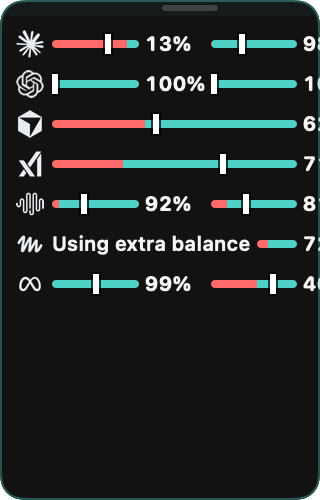
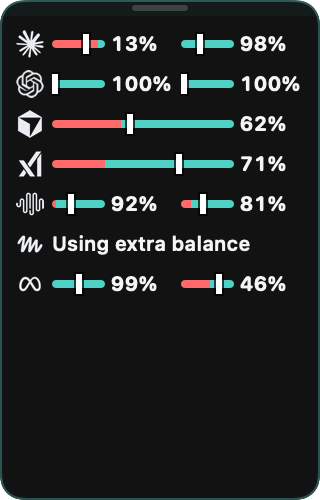
fix(pip): keep the HUD's widths honest after review
* The "Using extra balance" row no longer overflows.  The words take the room they need and shrink to give the meter what is left, and the meter gives way first when the row is too narrow for both.
* The percentage column is 32 points.  The rendered "100%" measures 31, and the percentage is a fixed-size text, so a 30 point column clipped its last digit.
* The provider name is capped at the width the ladder budgeted for it.  A long name now truncates instead of pushing the meters out of the row.
* The expanded detail gives way before the panel clips.  The countdown goes first, then the label, and the bar takes whatever room is left.
* A label that only shares the caption's leading digits is kept.  "5 GB bonus" beside a "5h" caption is no longer dropped.
* The expanded detail reads the same width ladder as the rows.

diff --git a/Sources/CodeCaps/PipWidget.swift b/Sources/CodeCaps/PipWidget.swift
@@ -30,7 +30,11 @@ enum PipMetrics {
     /// Wide enough for "100%" in bold monospaced digits at 10pt, left-aligned so
     /// a long number never clips: the owner saw "100%" lose a couple of points
     /// at the narrow end when it was right-aligned into a tight frame.
-    static let percentWidth: CGFloat = 30
+    ///
+    /// 32, not 30: the rendered "100%" measures 31 points at 10pt bold
+    /// monospaced, and the percentage is a fixed-size text, so a 30 point
+    /// column clipped its last digit.
+    static let percentWidth: CGFloat = 32
     static let countdownWidth: CGFloat = 42
     static let countdownCompactWidth: CGFloat = 28
     static let barMinWidth: CGFloat = 20
@@ -139,6 +143,28 @@ enum PipMetrics {
     /// very smallest window the owner can drag the panel to.
     static let logoSingleMeterMinWidth: CGFloat =
         providerLogoSize + rowSpacing + bareMeterMinWidth
+
+    /// The narrowest one line of the expanded platform detail can be and still
+    /// show the cadence caption, the percentage and the bar.
+    static let detailRowMinWidth: CGFloat =
+        cadenceWidth + meterSpacing + percentWidth + meterSpacing + barMinWidth
+
+    /// The same line plus its reset countdown.
+    static let detailRowMinWidthWithCountdown: CGFloat =
+        detailRowMinWidth + meterSpacing + countdownWidth
+
+    /// The least room a window label needs before it is worth showing.
+    static let detailLabelMinWidth: CGFloat = 24
+
+    /// The most a window label may take.  The bar needs the room more.
+    static let detailLabelMaxWidth: CGFloat = 120
+
+    /// The narrowest the words beside a capped row's extra balance can be.
+    ///
+    /// "Using extra balance" measures 99 points at 10pt semibold and is allowed
+    /// to shrink to 70% of that, so 70 points is the least room in which the
+    /// words still read.
+    static let extraBalanceTextMinWidth: CGFloat = 70
 
     // MARK: Responsive detail
 
@@ -738,7 +764,8 @@ struct PipWidgetView: View {
                             .frame(width: 1)
                             .frame(height: PipMetrics.rowHeight)
                     }
-                    pipRow(row, detail: detail, expandedCadence: expandedCadence, peerRows: peerRows)
+                    pipRow(row, detail: detail, expandedCadence: expandedCadence, peerRows: peerRows,
+                           available: rowWidth)
                         .frame(width: rowWidth, alignment: .leading)
                 }
             }
@@ -831,22 +858,24 @@ struct PipWidgetView: View {
             // of every provider, so asking for it again inside each row
             // helper rebuilt the same list once per row, once per frame.
             let peerRows = model.orderedPipDisplaySections()
+            let spiking = anyRowSpiking(peerRows: peerRows)
+            let expandedCadence = isSingleModel && PipMetrics.expandedCadenceFits(
+                forWidth: geo.size.width, titleWidth: providerTitleWidth,
+                hasFlame: spiking, meterCount: maximumMeterCount,
+                allowsTitle: model.pipShowProviderNames)
+            // One ladder for the whole panel, so the expanded detail reads the
+            // same width the rows do.
+            let detail = PipMetrics.detail(forWidth: geo.size.width, titleWidth: providerTitleWidth,
+                                           hasFlame: spiking, meterCount: maximumMeterCount,
+                                           expandedCadence: expandedCadence,
+                                           allowsTitle: model.pipShowProviderNames)
             ZStack(alignment: .topTrailing) {
                 VStack(spacing: 0) {
                     dragStrip
                     if let detailRow {
-                        detailPanel(detailRow, detail: PipMetrics.detail(forWidth: geo.size.width),
-                                    peerRows: peerRows, height: geo.size.height)
+                        detailPanel(detailRow, detail: detail, peerRows: peerRows,
+                                    height: geo.size.height, width: geo.size.width)
                     } else {
-                        let spiking = anyRowSpiking(peerRows: peerRows)
-                        let expandedCadence = isSingleModel && PipMetrics.expandedCadenceFits(
-                            forWidth: geo.size.width, titleWidth: providerTitleWidth,
-                            hasFlame: spiking, meterCount: maximumMeterCount,
-                            allowsTitle: model.pipShowProviderNames)
-                        let detail = PipMetrics.detail(forWidth: geo.size.width, titleWidth: providerTitleWidth,
-                                                       hasFlame: spiking, meterCount: maximumMeterCount,
-                                                       expandedCadence: expandedCadence,
-                                                       allowsTitle: model.pipShowProviderNames)
                         rowsPanel(detail: detail, height: geo.size.height, width: geo.size.width,
                                   expandedCadence: expandedCadence, peerRows: peerRows)
                     }
@@ -991,16 +1020,18 @@ struct PipWidgetView: View {
             horizontalRows(detail: detail, expandedCadence: expandedCadence, peerRows: peerRows)
         } else {
             verticalRows(detail: detail, visible: visible, overflows: overflows, expandedCadence: expandedCadence,
-                         peerRows: peerRows)
+                         peerRows: peerRows, available: width - PipMetrics.padding * 2)
         }
     }
 
     private func verticalRows(detail: PipMetrics.Detail, visible: Int, overflows: Bool,
-                              expandedCadence: Bool, peerRows: [DisplaySection]) -> some View {
+                              expandedCadence: Bool, peerRows: [DisplaySection],
+                              available: CGFloat) -> some View {
         ScrollView(.vertical, showsIndicators: false) {
             VStack(spacing: 0) {
                 ForEach(Array(targetRows.prefix(max(1, visible)))) { row in
-                    pipRow(row, detail: detail, expandedCadence: expandedCadence, peerRows: peerRows)
+                    pipRow(row, detail: detail, expandedCadence: expandedCadence, peerRows: peerRows,
+                           available: available)
                 }
                 if overflows {
                     // Say so, rather than letting a pinned row look absent.
@@ -1022,7 +1053,7 @@ struct PipWidgetView: View {
     /// One row.  The whole row is the tap target for opening that platform's
     /// detail.
     private func pipRow(_ row: DisplaySection, detail: PipMetrics.Detail, expandedCadence: Bool,
-                         peerRows: [DisplaySection]) -> some View {
+                         peerRows: [DisplaySection], available: CGFloat) -> some View {
         let issue = model.issues[row.providerKey]
         let status = PipWidgetController.readingStatus(for: row, now: model.now, issue: issue,
                                                        disabledSources: model.disabledSources,
@@ -1076,11 +1107,14 @@ struct PipWidgetView: View {
                 // The name hugs its own bar instead of sitting in a column of
                 // its own: the owner asked for the logo and the name close to
                 // the meter, not aligned somewhere else (owner, 2026-10-28).
+                // It never grows past the width the ladder budgeted for it
+                // though: a long name truncates instead of pushing the meters
+                // out of the row.
                 Text(row.title)
                     .font(.system(size: PipMetrics.titleFontSize, weight: .medium))
                     .foregroundStyle(background.ink)
                     .lineLimit(1)
-                    .fixedSize()
+                    .frame(maxWidth: PipMetrics.titleWidth, alignment: .leading)
             }
 
             if let status {
@@ -1095,17 +1129,31 @@ struct PipWidgetView: View {
                 // The words hug their meter.  Splitting the row in half put a
                 // void between the sentence and the bar it describes, which is
                 // the same dead gap the meters had (owner, 2026-10-28).
-                HStack(spacing: PipMetrics.meterSpacing) {
-                    Text("Using extra balance")
-                        .font(.system(size: 10, weight: .semibold))
-                        .foregroundStyle(background.ink)
-                        .lineLimit(1)
-                        .minimumScaleFactor(0.7)
-                        .fixedSize()
-                    pipMeter(extra, detail: detail, expandedCadence: expandedCadence)
-                        .frame(maxWidth: .infinity)
+                //
+                // They never push the meter out of the row either.  The words
+                // take the room they need and shrink to give the meter what is
+                // left, and when even that is not enough the meter goes first:
+                // the words are what says the plan is still working (owner,
+                // 2026-10-28).
+                let meterMin = detail.showsCadence ? PipMetrics.meterMinWidth : PipMetrics.bareMeterMinWidth
+                let identity = PipMetrics.providerLogoSize + PipMetrics.rowSpacing
+                let textBudget = max(0, available - identity - PipMetrics.meterSpacing - meterMin)
+                let showsMeter = textBudget >= PipMetrics.extraBalanceTextMinWidth
+                let words = Text("Using extra balance")
+                    .font(.system(size: 10, weight: .semibold))
+                    .foregroundStyle(background.ink)
+                    .lineLimit(1)
+                    .minimumScaleFactor(0.7)
+                if showsMeter {
+                    HStack(spacing: PipMetrics.meterSpacing) {
+                        words.frame(maxWidth: textBudget, alignment: .leading)
+                        pipMeter(extra, detail: detail, expandedCadence: expandedCadence)
+                            .frame(maxWidth: .infinity)
+                    }
+                    .frame(maxWidth: .infinity, alignment: .leading)
+                } else {
+                    words.frame(maxWidth: max(0, available - identity), alignment: .leading)
                 }
-                .frame(maxWidth: .infinity, alignment: .leading)
             } else if let atCap {
                 pipAtCap(atCap, detail: detail)
             } else {
@@ -1131,7 +1179,8 @@ struct PipWidgetView: View {
     /// One platform, in the panel, with every window it publishes rather than
     /// the two the summary row has room for.
     private func detailPanel(_ row: DisplaySection, detail: PipMetrics.Detail,
-                              peerRows: [DisplaySection], height: CGFloat) -> some View {
+                              peerRows: [DisplaySection], height: CGFloat,
+                              width: CGFloat) -> some View {
         let issue = model.issues[row.providerKey]
         let windows = PipWidgetController.currentWindows(for: row, now: model.now, issue: issue,
                                                          disabledSources: model.disabledSources,
@@ -1143,6 +1192,8 @@ struct PipWidgetView: View {
         // spare spreads the rows out instead of huddling them at the top
         // (owner, 2026-10-28).
         let spacing = detailRowSpacing(rowCount: windows.count, height: height)
+        // What one line of the panel actually has to work with.
+        let available = max(0, width - PipMetrics.padding * 2)
 
         return ScrollView(.vertical, showsIndicators: false) {
             VStack(alignment: .leading, spacing: 0) {
@@ -1167,7 +1218,7 @@ struct PipWidgetView: View {
                 .padding(.bottom, 1)
 
                 ForEach(Array(windows.enumerated()), id: \.element.window.id) { index, snapshot in
-                    detailWindowRow(snapshot, detail: detail)
+                    detailWindowRow(snapshot, detail: detail, available: available)
                         .frame(height: PipMetrics.detailRowHeight)
                         .padding(.top, index == 0 ? PipMetrics.detailRowSpacingMin : spacing)
                 }
@@ -1196,14 +1247,22 @@ struct PipWidgetView: View {
     /// The label is dropped when it only restates the caption -- "5-hour"
     /// beside "5h" says the same thing twice -- and kept when it names
     /// something the caption cannot, such as a model.
-    private func detailWindowRow(_ snapshot: QuotaWindowSnapshot, detail: PipMetrics.Detail) -> some View {
+    private func detailWindowRow(_ snapshot: QuotaWindowSnapshot, detail: PipMetrics.Detail,
+                                  available: CGFloat) -> some View {
         let metrics = QuotaBarMetrics(snapshot: snapshot, now: model.now)
         let remaining = snapshot.remainingPercent
         let isExtra = isMuseAssistExtra(snapshot)
         let cd = isExtra ? "extra" : (detail.usesCompactCountdown ? glanceResetCompactCountdown(snapshot.resetAt, now: model.now) : glanceResetCountdown(snapshot.resetAt, now: model.now))
         let cadenceCaption = glanceMeterCaption(snapshot)
         let label = cleanWindowLabel(snapshot.window.label)
+        // The line gives way before the panel clips: the countdown goes
+        // first, then the label, and the bar takes whatever is left.
+        let showsCountdown = !cd.isEmpty && available >= PipMetrics.detailRowMinWidthWithCountdown
+        let labelBudget = max(0, available - PipMetrics.detailRowMinWidth - PipMetrics.meterSpacing
+                              - (showsCountdown ? PipMetrics.meterSpacing + PipMetrics.countdownWidth : 0))
         let showLabel = !detailLabelRedundant(caption: cadenceCaption, label: label)
+            && labelBudget >= PipMetrics.detailLabelMinWidth
+        let labelWidth = min(labelBudget, PipMetrics.detailLabelMaxWidth)
 
         return HStack(spacing: PipMetrics.meterSpacing) {
             Text(cadenceCaption)
@@ -1216,7 +1275,7 @@ struct PipWidgetView: View {
                     .font(.system(size: 10, weight: .medium))
                     .foregroundStyle(background.ink)
                     .lineLimit(1)
-                    .fixedSize()
+                    .frame(maxWidth: labelWidth, alignment: .leading)
             }
 
             Text(remaining.map { "\(Int($0.rounded()))%" } ?? "—")
@@ -1233,7 +1292,7 @@ struct PipWidgetView: View {
             )
             .frame(minWidth: PipMetrics.barMinWidth, maxWidth: PipMetrics.detailBarMaxWidth)
 
-            if !cd.isEmpty {
+            if showsCountdown {
                 Text(cd)
                     .font(isExtra ? .system(size: 9, weight: .bold) : .system(size: 9).monospacedDigit())
                     .foregroundStyle(isExtra ? background.ink : background.countdownInk)
@@ -1377,8 +1436,14 @@ func detailLabelRedundant(caption: String, label: String) -> Bool {
     if captionText == labelText { return true }
     let digits = captionText.prefix(while: { $0.isNumber })
     guard !digits.isEmpty else { return false }
-    // "5h" and "5-hour"; "7d" and "7-day".
-    return labelText.hasPrefix(String(digits))
+    guard labelText.hasPrefix(String(digits)) else { return false }
+    // Only a time unit after the digits repeats the caption: "5h" and
+    // "5-hour", "7d" and "7-day".  A label that merely starts with the same
+    // number -- "5 GB bonus" beside a "5h" caption -- names something the
+    // caption cannot, so it stays.
+    let rest = labelText.dropFirst(digits.count).trimmingCharacters(in: .whitespaces)
+    let unit = rest.hasPrefix("-") ? String(rest.dropFirst()) : rest
+    return ["", "h", "d", "hr", "hrs", "hour", "hours", "day", "days"].contains(unit)
 }
 
 func cleanWindowLabel(_ label: String) -> String {

diff --git a/Tests/CodeCapsTests/PipMetricsTests.swift b/Tests/CodeCapsTests/PipMetricsTests.swift
@@ -1,3 +1,4 @@
+import AppKit
 import XCTest
 @testable import CodeCaps
 
@@ -298,6 +299,50 @@ final class PipMetricsTests: XCTestCase {
         XCTAssertFalse(detailLabelRedundant(caption: "5h", label: "Sonnet"))
         XCTAssertFalse(detailLabelRedundant(caption: "7d", label: "weekly"))
         XCTAssertFalse(detailLabelRedundant(caption: "Quota", label: "Included plan"))
+    }
+
+    /// A label that merely starts with the caption's number is not a repeat of
+    /// the caption.  "5 GB bonus" beside a "5h" caption names something the
+    /// caption cannot, so it stays (review finding, 2026-10-28).
+    func testALabelThatOnlySharesTheCaptionDigitsIsKept() {
+        XCTAssertFalse(detailLabelRedundant(caption: "5h", label: "5 GB bonus"))
+        XCTAssertFalse(detailLabelRedundant(caption: "1m", label: "1M tokens"))
+        XCTAssertFalse(detailLabelRedundant(caption: "5h", label: "5-hour reset"))
+        XCTAssertTrue(detailLabelRedundant(caption: "5h", label: "5 hour"))
+        XCTAssertTrue(detailLabelRedundant(caption: "5h", label: "5h"))
+        XCTAssertTrue(detailLabelRedundant(caption: "7d", label: "7-day"))
+    }
+
+    /// The percentage column has to hold "100%" at 10pt bold monospaced: the
+    /// percentage is a fixed-size text, so a column narrower than the text
+    /// clips its last digit (review finding, 2026-10-28).
+    func testThePercentColumnHoldsOneHundredPercent() {
+        let font = NSFont.monospacedDigitSystemFont(ofSize: 10, weight: .bold)
+        let width = ("100%" as NSString).size(withAttributes: [.font: font]).width
+        XCTAssertLessThanOrEqual(width, PipMetrics.percentWidth,
+                                 "the percent column must hold the widest percentage")
+    }
+
+    /// The words beside a capped row's extra balance have to still read at the
+    /// narrowest width they are allowed (review finding, 2026-10-28).
+    func testTheExtraBalanceWordsStillReadAtTheirSmallest() {
+        let font = NSFont.systemFont(ofSize: 10, weight: .semibold)
+        let width = ("Using extra balance" as NSString).size(withAttributes: [.font: font]).width
+        XCTAssertLessThanOrEqual(width * 0.7, PipMetrics.extraBalanceTextMinWidth,
+                                 "the words must still read at 70% of their full width")
+    }
+
+    /// One line of the expanded detail has to fit the smallest panel the owner
+    /// can drag the HUD to, and the countdown gives way there (review finding,
+    /// 2026-10-28).
+    func testTheDetailLineFitsTheSmallestPanel() {
+        let smallest = PipMetrics.minWidth - PipMetrics.padding * 2
+        XCTAssertLessThanOrEqual(PipMetrics.detailRowMinWidth, smallest,
+                                 "the narrowest detail line must fit the smallest panel")
+        XCTAssertGreaterThan(PipMetrics.detailRowMinWidthWithCountdown, smallest,
+                             "the countdown cannot fit the smallest panel, so it is the first thing to go")
+        XCTAssertEqual(PipMetrics.detailRowMinWidthWithCountdown,
+                       PipMetrics.detailRowMinWidth + PipMetrics.meterSpacing + PipMetrics.countdownWidth)
     }
 
     func testTwoMeterRowsStayOnScreenAtFullDetail() {
